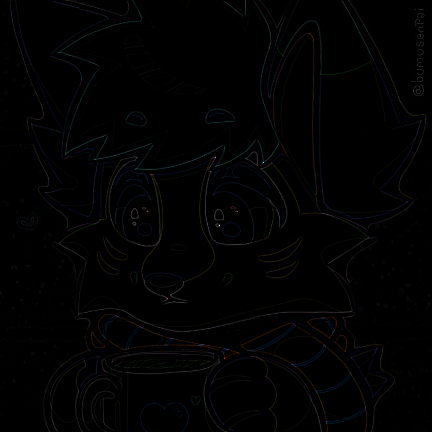
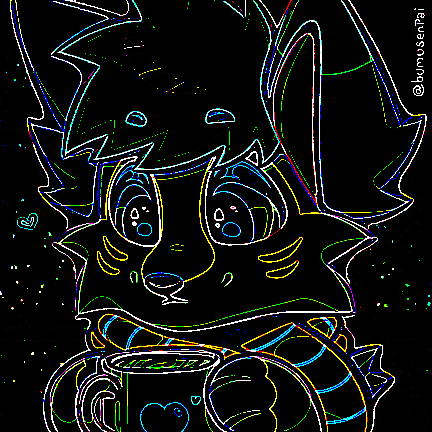
Amélioration différence de Gaussienne
Merci Eléa pour le tip :D

diff --git a/src/main.cpp b/src/main.cpp
@@ -666,9 +666,9 @@ void gaussienne_difference(sil::Image& img) {
             glm::vec3 c1 = blurred1.pixel(x, y);
             glm::vec3 c2 = blurred2.pixel(x, y);
             img.pixel(x, y) = glm::vec3{
-                std::clamp(c1.r - c2.r > 0.3f ? 1.f : c1.r - c2.r, 0.f, 1.f),
-                std::clamp(c1.g - c2.g > 0.3f ? 1.f : c1.g - c2.g, 0.f, 1.f),
-                std::clamp(c1.b - c2.b > 0.3f ? 1.f : c1.b - c2.b, 0.f, 1.f)
+                std::clamp(c1.r - c2.r > 0.03f ? 1.f : c1.r - c2.r, 0.f, 1.f),
+                std::clamp(c1.g - c2.g > 0.03f ? 1.f : c1.g - c2.g, 0.f, 1.f),
+                std::clamp(c1.b - c2.b > 0.03f ? 1.f : c1.b - c2.b, 0.f, 1.f)
             };
         }
     }
